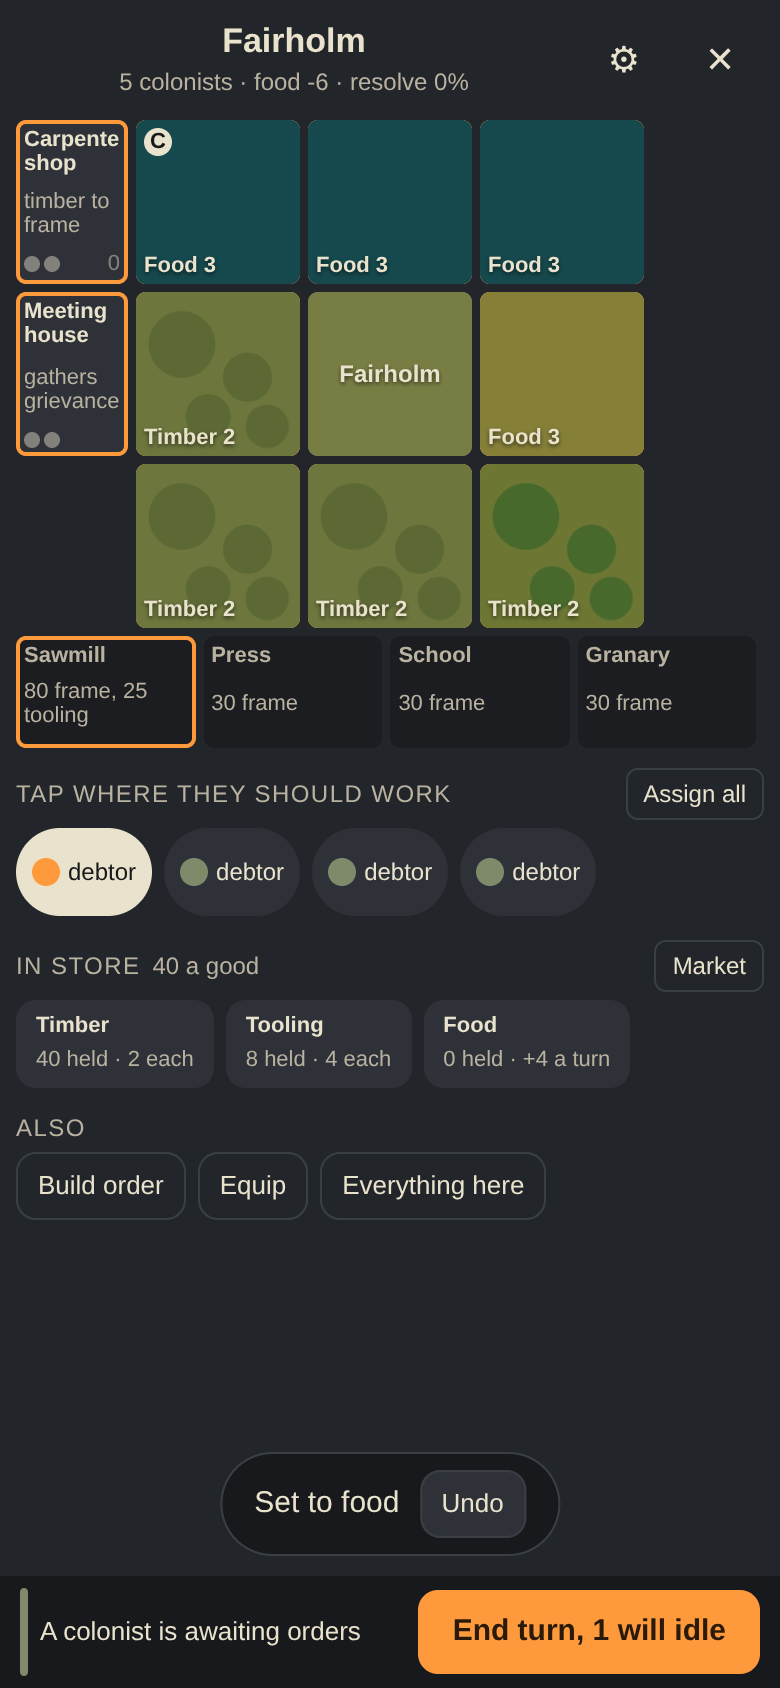
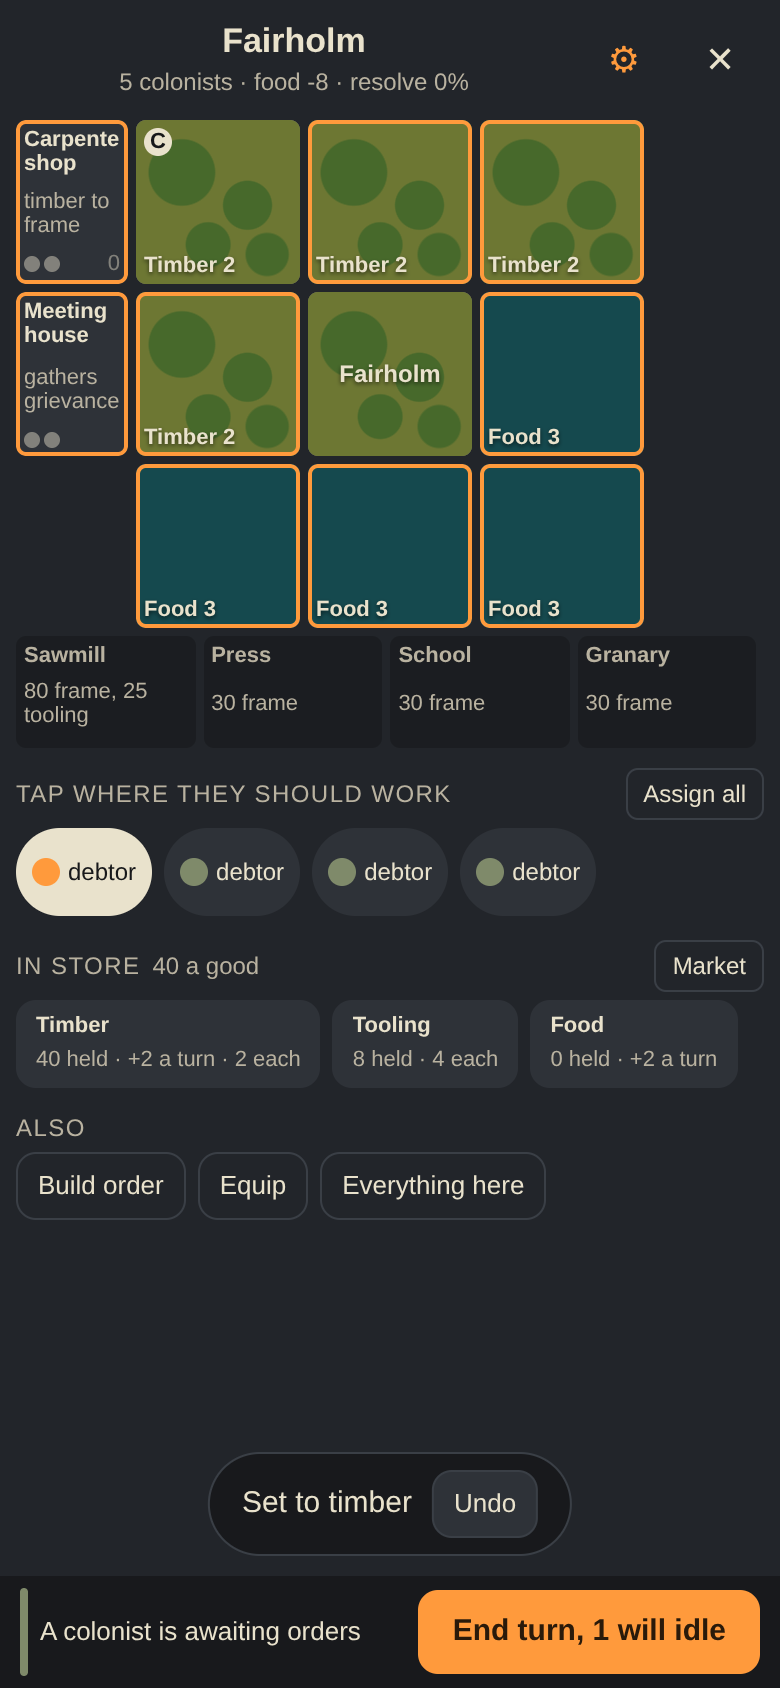
The highlight has to be visible, and only where the colonist can go
Three things the screenshots showed and the assertions did not:

- a lit ring cell showed no highlight at all. An outline is painted before a
  positioned child, and a cell's terrain is a positioned child, so the terrain
  covered it. The highlight is now a layer over the cell's contents
- unbuilt slots lit up, because an upgrade carries the same building line as
  the thing it upgrades. Only a building that exists and has room lights now
- a tile someone already works lit up and then refused the assignment. It is
  no longer a destination, and tapping one while holding a colonist opens the
  sheet that offers the swap instead of failing

The toast also names the work now: "Set to timber" rather than "Set to work".

Claude-Session: https://claude.ai/code/session_01BnaKxg5sYv2MtJa999phiz

diff --git a/src/ui/app.ts b/src/ui/app.ts
@@ -495,7 +495,9 @@ export class App {
     if (this.pick && this.pick.settlement === st.id) {
       const good = cell.best?.good
       if (!cell.available || !good) { this.toast(cell.reason ?? 'Not workable.'); return }
-      this.dispatch({ t: 'assignWorker', settlement: st.id, colonist: this.pick.colonist, job: { kind: 'tile', tile: cell.tile, good } }, 'Set to work')
+      // somewhere someone already works: ask rather than fail, so the swap is one more tap
+      if (cell.worker && cell.worker.index !== this.pick.colonist) { this.open({ kind: 'assignTile', settlement: st.id, tile: cell.tile }); return }
+      this.dispatch({ t: 'assignWorker', settlement: st.id, colonist: this.pick.colonist, job: { kind: 'tile', tile: cell.tile, good } }, `Set to ${good}`)
       this.pick = null
       this.renderSheet()
       return
@@ -517,7 +519,8 @@ export class App {
     }
     if (slot.capacity === 0) { this.toast(`${slot.name}: ${slot.conversion}.`); return }
     if (this.pick && this.pick.settlement === st.id) {
-      this.dispatch({ t: 'assignWorker', settlement: st.id, colonist: this.pick.colonist, job: { kind: 'building', line: slot.line } }, 'Set to work')
+      if (slot.workers.length >= slot.capacity) { this.open({ kind: 'assignBuilding', settlement: st.id, line: slot.line }); return }
+      this.dispatch({ t: 'assignWorker', settlement: st.id, colonist: this.pick.colonist, job: { kind: 'building', line: slot.line } }, `Set to ${slot.name}`)
       this.pick = null
       this.renderSheet()
       return

diff --git a/src/ui/settlement.ts b/src/ui/settlement.ts
@@ -128,14 +128,16 @@ export function settlementScreen(app: App, s: GameState, st: Settlement): HTMLEl
   const ring = h('div', { class: 'st-ring' }, cells.map(c => ringCell(app, st, c, c.tile !== null && dests.tiles.has(c.tile))))
   attachRingSwipe(app, ring)
 
+  // only a building that exists and has room can take the colonist being held
+  const lit = (b: BuildingSlot) => b.built && dests.lines.has(b.line)
   const core = h('div', { class: 'st-core' },
-    h('div', { class: 'st-flank' }, flankLeft.map(b => buildingSlotEl(app, st, b, dests.lines.has(b.line)))),
+    h('div', { class: 'st-flank' }, flankLeft.map(b => buildingSlotEl(app, st, b, lit(b)))),
     ring,
-    h('div', { class: 'st-flank' }, flankRight.map(b => buildingSlotEl(app, st, b, dests.lines.has(b.line)))),
+    h('div', { class: 'st-flank' }, flankRight.map(b => buildingSlotEl(app, st, b, lit(b)))),
   )
 
   const body = h('div', { class: 'st-body' }, core)
-  if (overflow.length) body.append(h('div', { class: 'st-overflow' }, overflow.map(b => buildingSlotEl(app, st, b, dests.lines.has(b.line)))))
+  if (overflow.length) body.append(h('div', { class: 'st-overflow' }, overflow.map(b => buildingSlotEl(app, st, b, lit(b)))))
 
   // ---- idle, only when someone is idle -----------------------------------------------------------
   const idle = st.colonists.map((c, i) => ({ c, i })).filter(x => x.c.job.kind === 'idle')

diff --git a/src/ui/style.css b/src/ui/style.css
@@ -325,8 +325,13 @@ input[type=text] {
 }
 .cell:active, .slot:active { filter: brightness(1.15); }
 .cell.dim { opacity: 0.4; }
-.cell.can-take, .slot.can-take { outline: calc(var(--line-hair) * 2) solid var(--accent); outline-offset: calc(var(--line-hair) * -2); }
-.cell.picked, .slot.picked { outline: calc(var(--line-hair) * 2) solid var(--ink); outline-offset: calc(var(--line-hair) * -2); }
+/* the highlight is a layer over the cell's own contents, because a ring cell's terrain is an
+   absolutely positioned child and would paint over an outline */
+.cell.can-take::after, .slot.can-take::after, .cell.picked::after, .slot.picked::after {
+  content: ''; position: absolute; inset: 0; z-index: 2; pointer-events: none;
+  border-radius: inherit; border: calc(var(--line-hair) * 2) solid var(--accent);
+}
+.cell.picked::after, .slot.picked::after { border-color: var(--ink); }
 
 /* ring cells carry real terrain, drawn from the map's own palette and tile data */
 .cell .terrain { position: absolute; inset: 0; }

diff --git a/src/ui/selectors.ts b/src/ui/selectors.ts
@@ -254,7 +254,8 @@ export function destinationsFor(s: GameState, st: Settlement, colonist: number):
   if (!c) return { tiles, lines }
   for (const cell of ringCells(s, st)) {
     if (!cell.tile || !cell.available || !cell.best) continue
-    if (cell.worker && cell.worker.index === colonist) continue
+    // somewhere someone already works is not a free destination; a swap is offered by tapping it
+    if (cell.worker) continue
     if (tileYield(s, cell.tile, cell.best.good, c) > 0) tiles.add(cell.tile)
   }
   for (const line of BUILDING_LINES) {
